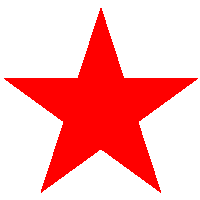
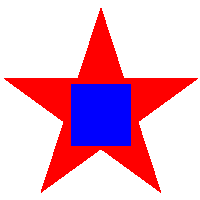
add letters to shape dataset generator

Changed region(s): [[0.33, 0.42, 0.66, 0.75]]

diff --git a/imaging/pytorch-efficientdet/data-gen/main.py b/imaging/pytorch-efficientdet/data-gen/main.py
@@ -1,12 +1,12 @@
 import math
 import os
-import json
 import random
 from typing import Callable
 
 import cv2
 import numpy as np
 from  image_rotation import get_rotated_image, get_shape_bbox
+from text_rendering import drawText, get_shape_text_area
 
 def create_shape_dataset(get_frame: Callable[[], cv2.Mat], 
                          shapes_directory:str, 
@@ -41,55 +41,74 @@ def create_shape_dataset(get_frame: Callable[[], cv2.Mat],
     shapes = dict(
         (
             name.split(".")[0], 
-            cv2.cvtColor(cv2.imread(f'{shapes_directory}/{name}'),cv2.COLOR_BGR2GRAY)
+            cv2.imread(f'{shapes_directory}/{name}')
         ) 
         for name in os.listdir(shapes_directory)
     )
-    categories = [
-        {
-            "id": i,
-            "name": name,
-            "supercategory": "none"
-        } for i,name in enumerate(shapes.keys())
-    ]
     if "output" not in os.listdir():
         os.mkdir("output")
         os.mkdir("output/train")
         os.mkdir("output/validation")
         os.mkdir("output/test")
     image_idx=0
-    annotations_file = open(f"./{output_dir}/annotations.csv","w")
-    annotations_file.writelines(["image,label,xmin,ymin,xmax,ymax"])
+    def add_shapes(frame, annotations_file):
+        height, width = frame.shape[:2]
+        for _shape_idx in range(random.randint(0,max_shapes_per_image)):
+            shape_name, category_num = random.choice(list(zip(shapes.keys(), range(len(shapes)))))
+
+            shape_source_h, shape_source_w = shapes[shape_name].shape[:2]
+            shape_resize_w = shape_resolution # the shape source image's width and height
+            
+            resized_shape = cv2.resize(shapes[shape_name], (shape_resize_w, int(shape_resize_w*shape_source_h/shape_source_w)))
+            letter = random.choice("ABCDEFGHIJKLMNOPQRSTUVWXYZ")
+            text_bbox = [[int(dim*shape_resize_w/shape_source_w) for dim in point] for point in get_shape_text_area(shape_name)]
+            drawText(
+                img=resized_shape, 
+                letter=letter, 
+                bounding_box=text_bbox,
+                color=(0,255,0),
+                thickness=1
+                )
+            shape_to_draw = get_rotated_image(
+                img=resized_shape,
+                theta=np.random.random()*np.pi*2
+            )
+            bbox = get_shape_bbox(shape_to_draw)
+            shape_h, shape_w = bbox[3]-bbox[1], bbox[2]-bbox[0]
+            
+            shape_color = (random.randint(0,255),random.randint(0,255),random.randint(0,255))
+            text_color=(random.randint(0,255),random.randint(0,255),random.randint(0,255))
+
+            x_offset = random.randint(0,width-shape_w)
+            y_offset = random.randint(0, height-shape_h)
+            # cv2.imshow("preview",shape_to_draw)
+            # print(shape_color, text_color)
+            # cv2.waitKey(0)
+            for y in range(1,shape_h):
+                for x in range(1,shape_w):
+                    pixel_color = shape_to_draw[bbox[0]+x][bbox[1]+y]
+                    if pixel_color[1]>0:
+                        gaussian_noise = np.random.normal(loc=0,scale=noise_scale,size=3)
+                        frame[y+y_offset][x+x_offset] = text_color+gaussian_noise
+                    elif pixel_color[2]>0 or pixel_color[0]>0:
+                        gaussian_noise = np.random.normal(loc=0,scale=noise_scale,size=3)
+                        frame[y+y_offset][x+x_offset] = shape_color+gaussian_noise
+            annotations_file.writelines(["\n",",".join(map(str,[output_file_name,category_num,x_offset,y_offset,x_offset+shape_w,y_offset+shape_h]))])
+
     for num_in_split, split_dir_name in [(data_split[0]*num_images, "train"),(data_split[1]*num_images, "validation"), (data_split[2]*num_images, "test")]:
+        annotations_file = open(f"./{output_dir}/{split_dir_name}annotations.csv","w")
+        annotations_file.writelines(["image,label,xmin,ymin,xmax,ymax"])
         for _ in range(math.ceil(num_in_split)):
             image_idx+=1
             frame=get_frame()
-            height, width = frame.shape[:2]
             # shape: (height, width, 3) e.g. (2988, 5312, 3)
             output_file_name = f"image{image_idx}.png"
-            for _shape_idx in range(random.randint(0,max_shapes_per_image)):
-                shape_name, category_num = random.choice(list(zip(shapes.keys(), range(len(shapes)))))
-                shape_source_h, shape_source_w = shapes[shape_name].shape[:2]
-                shape_resize_w = shape_resolution # the shape source image's width and height
-                shape_to_draw = get_rotated_image(
-                    img=cv2.resize(shapes[shape_name], (shape_resize_w, int(shape_resize_w*shape_source_h/shape_source_w))),
-                    theta=np.random.random()*np.pi*2
-                )
-                bbox = get_shape_bbox(shape_to_draw)
-                shape_h, shape_w = bbox[3]-bbox[1], bbox[2]-bbox[0]
-                color = (random.randint(0,255),random.randint(0,255),random.randint(0,255))
-                x_offset = random.randint(0,width-shape_w)
-                y_offset = random.randint(0, height-shape_h)
-                for y in range(1,shape_h):
-                    for x in range(1,shape_w):
-                        if shape_to_draw[bbox[0]+x][bbox[1]+y] > 0 :
-                            frame[y+y_offset][x+x_offset] = color+np.random.normal(loc=0,scale=noise_scale,size=3)
-                annotations_file.writelines(["\n",",".join(map(str,[output_file_name,category_num,x_offset,y_offset,x_offset+shape_w,y_offset+shape_h]))])
-            frame=cv2.blur(frame, (blur_radius, blur_radius))
+            add_shapes(frame, annotations_file)
+            if blur_radius>0:
+                frame=cv2.blur(frame, (blur_radius, blur_radius))
             cv2.imwrite(f"./{output_dir}/{split_dir_name}/{output_file_name}", frame)
             print("\r[{0}{1}] {2} ({3}%)".format("="*int(image_idx/num_images*20), " "*(20-int(image_idx/num_images*20)), f"Finished {image_idx}/{num_images}", int(image_idx/num_images*100)), end="")
-            # print(f"Finished {image_idx}/{num_images}")
-    annotations_file.close()
+        annotations_file.close()
 
 if __name__=="__main__":
     '''
@@ -97,21 +116,24 @@ if __name__=="__main__":
     grab_frame = lambda: vid.read()[1]
     '''
     img = cv2.imread("fieldgrab.png")
-    def grab_frame(frame_size: int = 512):
-        # return img.copy()
-        h,w = img.shape[:2]
-        origin_x = random.randint(0,w-frame_size)
-        origin_y = random.randint(0,h-frame_size)
-        return img[origin_y:origin_y+frame_size,origin_x:origin_x+frame_size].copy()
-
+    def generate_frame_function(img: cv2.Mat, frame_size:int = 512):
+        '''
+        Returns a function that returns a random window of `img` of size `frame_size`x`frame_size`.
+        '''
+        def grab_frame():
+            h,w = img.shape[:2]
+            origin_x = random.randint(0,w-frame_size)
+            origin_y = random.randint(0,h-frame_size)
+            return img[origin_y:origin_y+frame_size,origin_x:origin_x+frame_size].copy()
+        return grab_frame
 
     create_shape_dataset(
-        get_frame=grab_frame, 
+        get_frame=generate_frame_function(img), 
         shapes_directory="shapes", 
-        shape_resolution=36, 
+        shape_resolution=50, 
         max_shapes_per_image=3, 
-        blur_radius=5,
+        blur_radius=3,
         num_images=10,
         output_dir="output",
-        noise_scale=5
+        noise_scale=1
     )

diff --git a/imaging/pytorch-efficientdet/data-gen/text_rendering.py b/imaging/pytorch-efficientdet/data-gen/text_rendering.py
@@ -1,0 +1,76 @@
+import cv2
+import numpy as np
+import bisect
+from functools import cache
+from itertools import product
+
+@cache
+def _get_text_scale(letter: str, max_w: int, max_h:int, thickness: int):
+    def bisection_key(scale):
+        size, _ = cv2.getTextSize(letter,0,scale,thickness)
+        w,h=size
+        if w<max_w  and h< max_h:
+            return 0
+        else:
+            return 1
+    search_space_size=100
+    scales = np.linspace(0,10,search_space_size)
+    scale_idx = bisect.bisect_right(scales,0,0,search_space_size, key=bisection_key)
+    optimal_scale = scales[scale_idx-1]
+    size, _ = cv2.getTextSize(letter,0,optimal_scale,thickness)
+    return optimal_scale, size
+
+def drawText(img: cv2.Mat, letter: str, bounding_box: "tuple[tuple[int]]", thickness: int, color=(0,0,0), fontFace=cv2.FONT_HERSHEY_SIMPLEX):
+    '''
+        `bounding_box` should be [top_left, bot_right] and each point should be [x,y]
+
+
+        WARNING:
+        This produces text that's at most 250 pixels in its largest axis because the max scale it uses for `cv2.putText` is 10 and the default font characters are about 25 pixels large at scale 1.
+    '''
+
+    '''
+        Internal notes:
+        opencv default text size with scale 1 is around 25x25 at most for a letter
+        Z is 15 wide, m is 24 wide, A is 22 tall.
+    '''
+    t_left, b_right = bounding_box
+    optimal_scale, size = _get_text_scale(letter, b_right[0]-t_left[0], b_right[1]-t_left[1], thickness)
+    margin_x, margin_y = [b_right[i]-t_left[i]-size[i] for i in (0,1)]
+    cv2.putText(img, 
+                text=letter, 
+                org=(t_left[0]+margin_x//2,b_right[1]-margin_y//2),
+                fontFace=fontFace,
+                fontScale=optimal_scale,
+                color=color,
+                thickness=thickness)
+
+@cache
+def _get_shape_text_area(shape_name: str):
+    img = cv2.imread(f"shapes/{shape_name}.png")
+    h,w, _c = img.shape
+    bounding_box = []
+    for i,j in product(range(h),range(w)):
+        if img[i][j][0]>0:
+            bounding_box.append((j,i))
+            break
+    for i,j in product(reversed(range(h)),reversed(range(w))):
+        if img[i][j][0]>0:
+            bounding_box.append((j,i))
+            break
+    return bounding_box
+
+def get_shape_text_area(shape_name: str):
+    # implementation is in the private function so that the @cache doesn't mess up the argument type hint
+    return _get_shape_text_area(shape_name)
+    
+
+if __name__=="__main__":
+    print(get_shape_text_area("circle"))
+    # img = np.ones((1000,1000)) * 255
+    # letter="A"
+    # bbox = [(100,100),(130,130)]
+    # drawText(img, letter, bbox, 3)
+    # cv2.rectangle(img, bbox[0],bbox[1],(0,0,0),2)
+    # cv2.imshow("img", img)
+    # cv2.waitKey(0)

diff --git a/imaging/pytorch-efficientdet/data-gen/image_rotation.py b/imaging/pytorch-efficientdet/data-gen/image_rotation.py
@@ -53,7 +53,7 @@ def get_rotated_image(img: cv2.Mat, theta: float):
 
 def get_shape_bbox(img: cv2.Mat, show_box=False):
     '''
-    img: cv2 Mat with shape (width,height). Can't have a third channel, has to be grayscale
+    img: cv2 Mat with shape (width,height, channels)
 
     Gets the bounding box for a shape on a completely black background (all background values are 0 exactly)
     Runtime is proportional to the number of pixels in the image (width*height).
@@ -70,14 +70,14 @@ def get_shape_bbox(img: cv2.Mat, show_box=False):
     for row in range(height):
         found_shape=False
         for col in range(width):
-            if img[col][row]>0:
+            if any(img[col][row]>0):
                 x_min = min(col, x_min)
                 x_max = max(col, x_max)
                 found_shape=True
                 break
         if found_shape:
             for col in reversed(range(width)):
-                if img[col][row]>0:
+                if any(img[col][row]>0):
                     x_min = min(col, x_min)
                     x_max = max(col, x_max)
                     break
